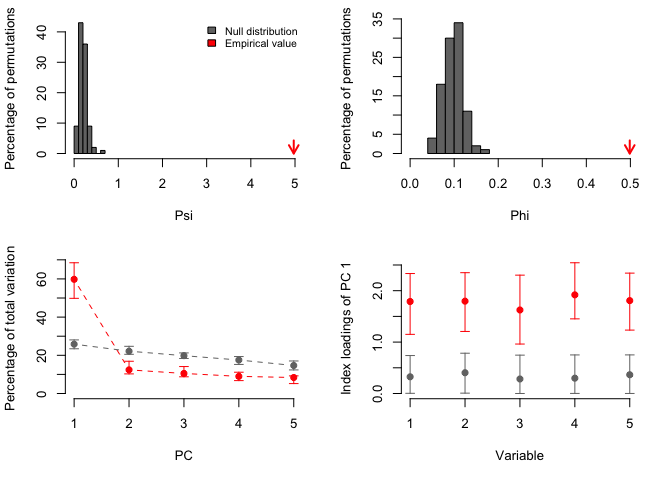
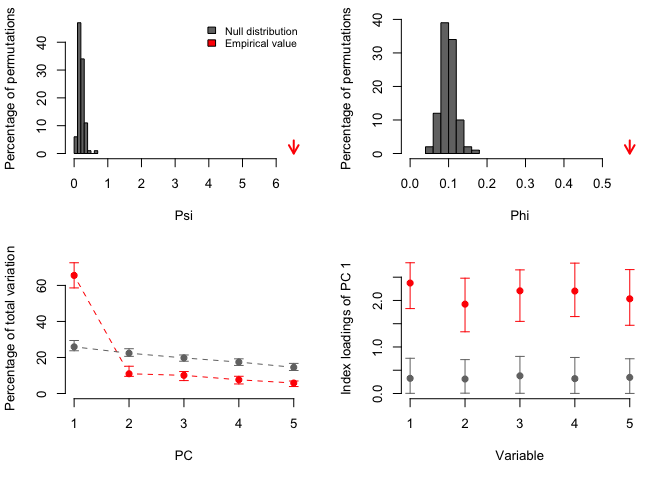
update readme

diff --git a/README.md b/README.md
@@ -55,8 +55,8 @@ result<-PCAtest(ex0, 100, 100, 0.05, varcorr=FALSE, counter=FALSE, plot=TRUE)
 #> 100 bootstrap replicates, 100 random permutations
 #> ========================================================
 #> 
-#> Empirical Psi = 0.3043, Max null Psi = 0.4098, Min null Psi = 0.0513, p-value = 0.09
-#> Empirical Phi = 0.1234, Max null Phi = 0.1431, Min null Phi = 0.0506, p-value = 0.09
+#> Empirical Psi = 0.0688, Max null Psi = 0.4391, Min null Psi = 0.0393, p-value = 0.96
+#> Empirical Phi = 0.0587, Max null Phi = 0.1482, Min null Phi = 0.0443, p-value = 0.96
 #> 
 #> PCA is not significant!
 ```
@@ -82,18 +82,18 @@ result<-PCAtest(ex025, 100, 100, 0.05, varcorr=FALSE, counter=FALSE, plot=TRUE)
 #> 100 bootstrap replicates, 100 random permutations
 #> ========================================================
 #> 
-#> Empirical Psi = 1.1747, Max null Psi = 0.4939, Min null Psi = 0.0575, p-value = 0
-#> Empirical Phi = 0.2424, Max null Phi = 0.1571, Min null Phi = 0.0536, p-value = 0
+#> Empirical Psi = 1.6125, Max null Psi = 0.5319, Min null Psi = 0.0540, p-value = 0
+#> Empirical Phi = 0.2839, Max null Phi = 0.1631, Min null Phi = 0.0520, p-value = 0
 #> 
-#> Empirical eigenvalue #1 = 1.93222, Max null eigenvalue = 1.49114, p-value = 0
-#> Empirical eigenvalue #2 = 1.005, Max null eigenvalue = 1.28542, p-value = 1
-#> Empirical eigenvalue #3 = 0.74778, Max null eigenvalue = 1.09896, p-value = 1
-#> Empirical eigenvalue #4 = 0.71836, Max null eigenvalue = 0.97523, p-value = 1
-#> Empirical eigenvalue #5 = 0.59664, Max null eigenvalue = 0.85027, p-value = 0.99
+#> Empirical eigenvalue #1 = 2.10089, Max null eigenvalue = 1.50657, p-value = 0
+#> Empirical eigenvalue #2 = 0.92377, Max null eigenvalue = 1.30606, p-value = 1
+#> Empirical eigenvalue #3 = 0.77332, Max null eigenvalue = 1.0849, p-value = 1
+#> Empirical eigenvalue #4 = 0.71281, Max null eigenvalue = 0.97661, p-value = 1
+#> Empirical eigenvalue #5 = 0.48921, Max null eigenvalue = 0.87261, p-value = 1
 #> 
-#> PC 1 is significant and accounts for 38.6% (95%-CI:33-45.1) of the total variation
+#> PC 1 is significant and accounts for 42% (95%-CI:36.4-50.3) of the total variation
 #> 
-#> Variables 3, and 5 have significant loadings on PC 1
+#> Variables 1, 2, 4, and 5 have significant loadings on PC 1
 ```
 
 <img src="man/figures/README-example2-1.png" width="100%" />
@@ -117,16 +117,16 @@ result<-PCAtest(ex05, 100, 100, 0.05, varcorr=FALSE, counter=FALSE, plot=TRUE)
 #> 100 bootstrap replicates, 100 random permutations
 #> ========================================================
 #> 
-#> Empirical Psi = 4.9715, Max null Psi = 0.6110, Min null Psi = 0.0347, p-value = 0
-#> Empirical Phi = 0.4986, Max null Phi = 0.1748, Min null Phi = 0.0416, p-value = 0
+#> Empirical Psi = 6.5224, Max null Psi = 0.6385, Min null Psi = 0.0652, p-value = 0
+#> Empirical Phi = 0.5711, Max null Phi = 0.1787, Min null Phi = 0.0571, p-value = 0
 #> 
-#> Empirical eigenvalue #1 = 2.98947, Max null eigenvalue = 1.51295, p-value = 0
-#> Empirical eigenvalue #2 = 0.61887, Max null eigenvalue = 1.29267, p-value = 1
-#> Empirical eigenvalue #3 = 0.52468, Max null eigenvalue = 1.11037, p-value = 1
-#> Empirical eigenvalue #4 = 0.44867, Max null eigenvalue = 0.99485, p-value = 1
-#> Empirical eigenvalue #5 = 0.41831, Max null eigenvalue = 0.8607, p-value = 1
+#> Empirical eigenvalue #1 = 3.27708, Max null eigenvalue = 1.59532, p-value = 0
+#> Empirical eigenvalue #2 = 0.54778, Max null eigenvalue = 1.32431, p-value = 1
+#> Empirical eigenvalue #3 = 0.50354, Max null eigenvalue = 1.08899, p-value = 1
+#> Empirical eigenvalue #4 = 0.38057, Max null eigenvalue = 0.97618, p-value = 1
+#> Empirical eigenvalue #5 = 0.29104, Max null eigenvalue = 0.86362, p-value = 1
 #> 
-#> PC 1 is significant and accounts for 59.8% (95%-CI:49.8-68.5) of the total variation
+#> PC 1 is significant and accounts for 65.5% (95%-CI:58.6-72.6) of the total variation
 #> 
 #> Variables 1, 2, 3, 4, and 5 have significant loadings on PC 1
 ```
@@ -152,18 +152,18 @@ result<-PCAtest(ants, 100, 100, 0.05, varcorr=FALSE, counter=FALSE, plot=TRUE)
 #> 100 bootstrap replicates, 100 random permutations
 #> ========================================================
 #> 
-#> Empirical Psi = 10.9186, Max null Psi = 2.6304, Min null Psi = 0.5929, p-value = 0
-#> Empirical Phi = 0.5099, Max null Phi = 0.2503, Min null Phi = 0.1188, p-value = 0
+#> Empirical Psi = 10.9186, Max null Psi = 2.4464, Min null Psi = 0.6633, p-value = 0
+#> Empirical Phi = 0.5099, Max null Phi = 0.2413, Min null Phi = 0.1257, p-value = 0
 #> 
-#> Empirical eigenvalue #1 = 3.84712, Max null eigenvalue = 2.17305, p-value = 0
-#> Empirical eigenvalue #2 = 1.52017, Max null eigenvalue = 1.68576, p-value = 0.21
-#> Empirical eigenvalue #3 = 0.70634, Max null eigenvalue = 1.42096, p-value = 1
-#> Empirical eigenvalue #4 = 0.41356, Max null eigenvalue = 1.08653, p-value = 1
-#> Empirical eigenvalue #5 = 0.34001, Max null eigenvalue = 0.93275, p-value = 1
-#> Empirical eigenvalue #6 = 0.14515, Max null eigenvalue = 0.7769, p-value = 1
-#> Empirical eigenvalue #7 = 0.02765, Max null eigenvalue = 0.60424, p-value = 1
+#> Empirical eigenvalue #1 = 3.84712, Max null eigenvalue = 2.21571, p-value = 0
+#> Empirical eigenvalue #2 = 1.52017, Max null eigenvalue = 1.70742, p-value = 0.13
+#> Empirical eigenvalue #3 = 0.70634, Max null eigenvalue = 1.40805, p-value = 1
+#> Empirical eigenvalue #4 = 0.41356, Max null eigenvalue = 1.07902, p-value = 1
+#> Empirical eigenvalue #5 = 0.34001, Max null eigenvalue = 0.91932, p-value = 1
+#> Empirical eigenvalue #6 = 0.14515, Max null eigenvalue = 0.7377, p-value = 1
+#> Empirical eigenvalue #7 = 0.02765, Max null eigenvalue = 0.58508, p-value = 1
 #> 
-#> PC 1 is significant and accounts for 55% (95%-CI:43.4-65.6) of the total variation
+#> PC 1 is significant and accounts for 55% (95%-CI:45.7-65.7) of the total variation
 #> 
 #> Variables 1, 2, 3, 4, 5, and 7 have significant loadings on PC 1
 ```
@@ -190,4 +190,9 @@ and Software, 2, 103–123.
 Wong, M. K. L. and Carmona, C. P. (2021) Including intraspecific trait
 variability to avoid distortion of functional diversity and ecological
 inference: Lessons from natural assemblages. Methods in Ecology and
-Evolution. .
+Evolution, 12, 946-957.  
+
+## Citation
+
+Camargo, A. (2022) PCAtest: Testing the statistical significance of
+Principal Component Analysis in R. PeerJ, in press.
